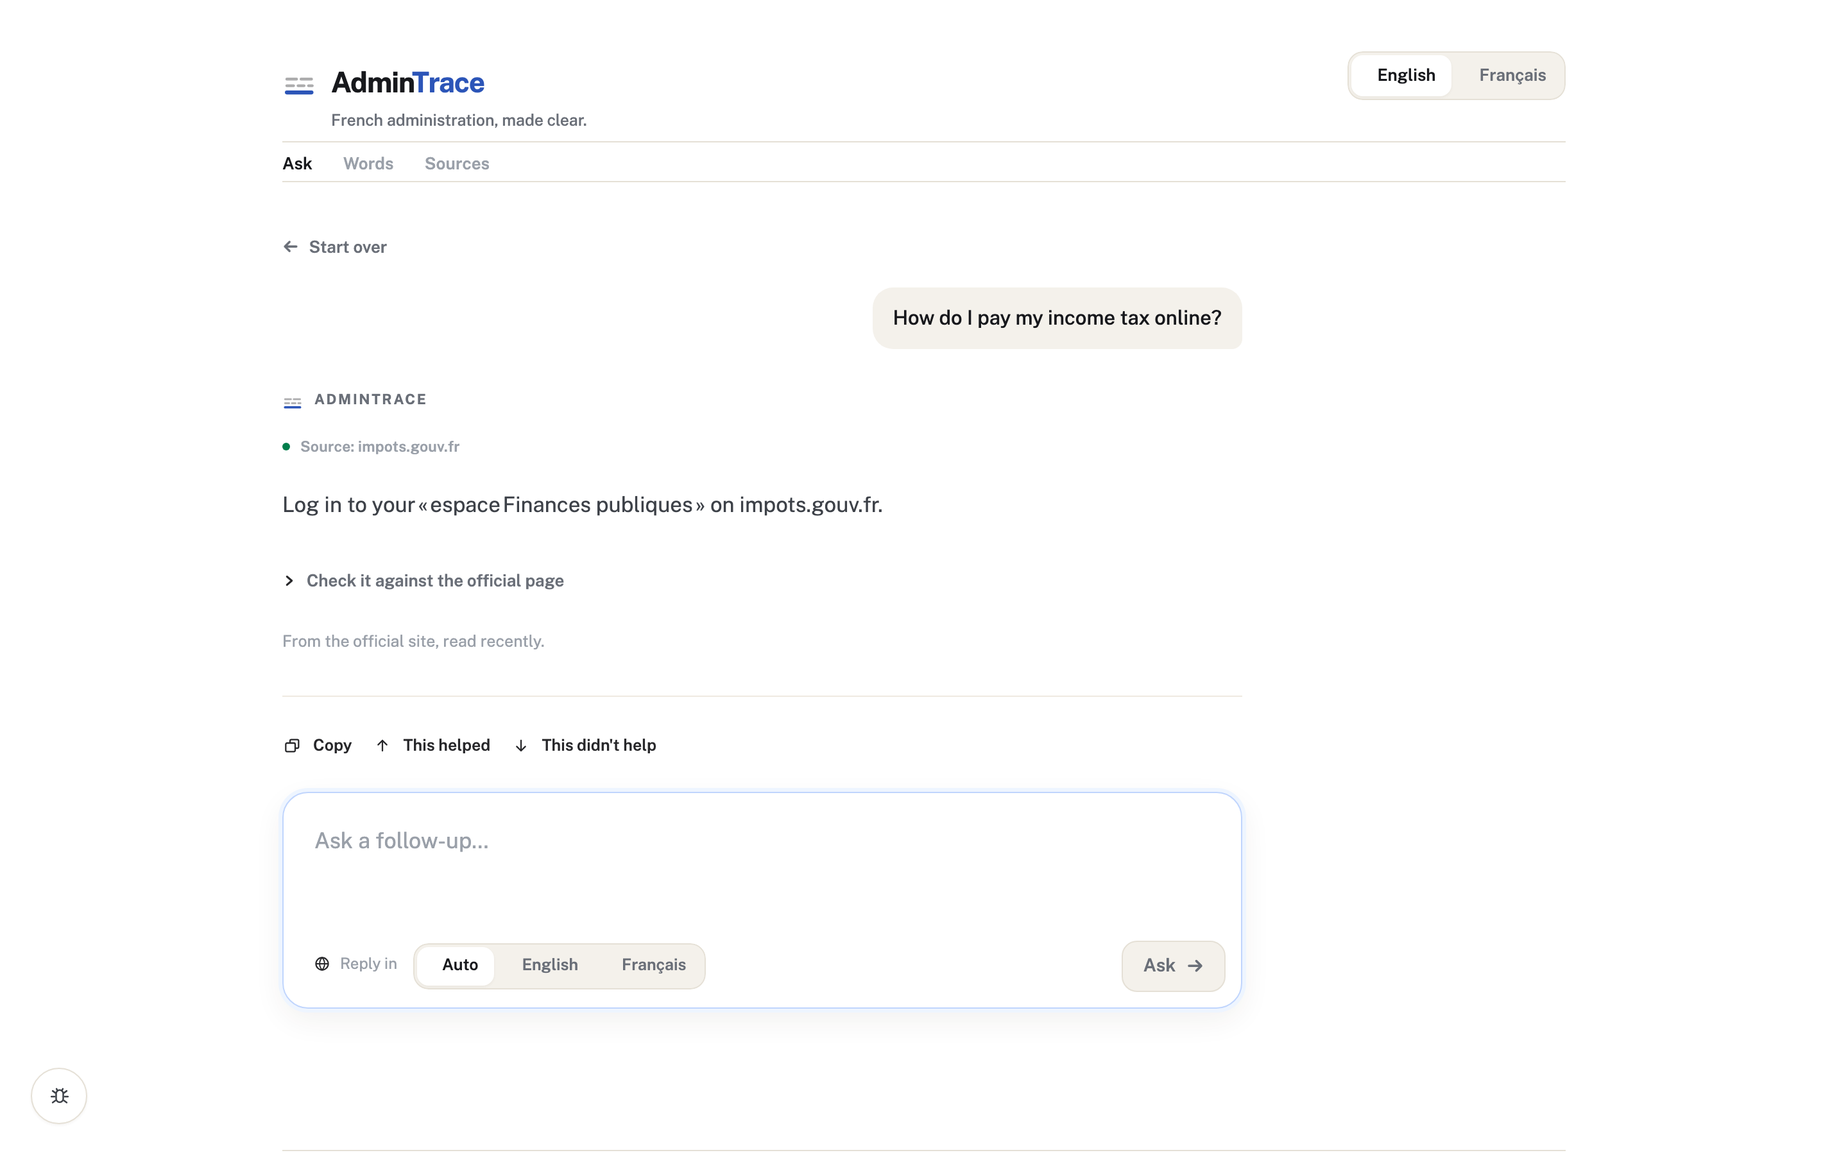
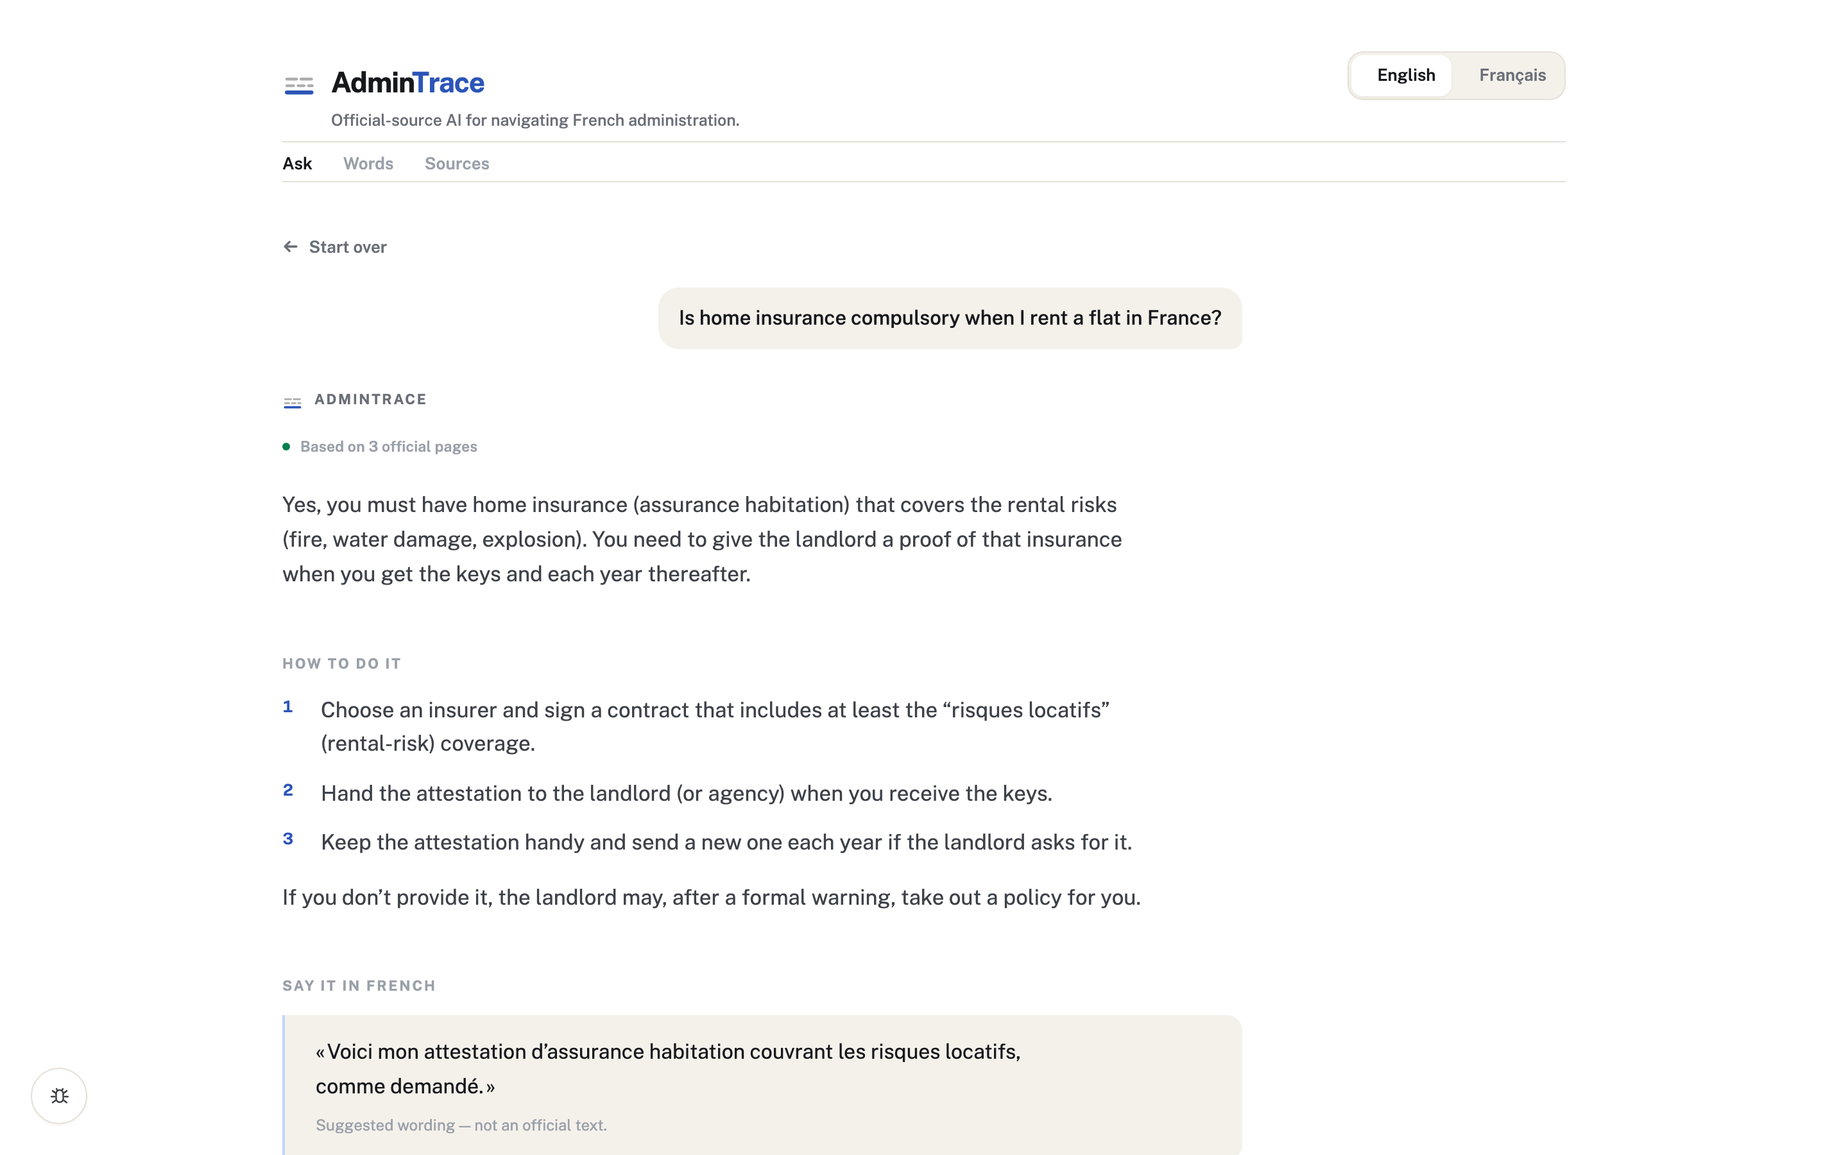
chore: prepare AdminTrace for public launch
Four things stood between this and a public launch.

Evidence selection deduplicated by page, so a fiche that answers across its
sections contributed only whichever section retrieval ranked first — the
passage stating a deposit amount was discarded as a duplicate of the passage
about getting it back, and the gate then refused, correctly, on the evidence it
had been handed. Selection now keys on page and section, capped at three
passages per page so one page still cannot fill every slot. Citations were
already deduplicated by URL, so a reader sees one entry per page as before.

"See the exact wording" never worked. The stylesheet reveals the passage
through `.rp-source.rp-open`, but `data-expandable` sat on the label inside the
card, so the handler toggled the class onto the label where no rule matched it
— and, the label being inside a link, the click opened the official site in a
new tab instead. The card carries the hook now and the handler prevents the
navigation. Verified in the running app: the excerpt goes from 0 to 130 pixels
and no second tab opens.

Two starter questions were refused in the live pipeline. The deposit question
becomes a compound query whose second half dominates retrieval, and the
contract question is routed to France Travail, which does not cover contract
law. Neither is fixable without retuning retrieval or adding a corpus fallback
to routing, so the questions are replaced with ones this system answers well —
[…]

diff --git a/app/ui/i18n.py b/app/ui/i18n.py
@@ -15,7 +15,7 @@ from __future__ import annotations
 STRINGS: dict[str, dict[str, str]] = {
     "en": {
         "headline": "What do you need help with?",
-        "promise": "French administration, made clear.",
+        "promise": "Official-source AI for navigating French administration.",
         "subhead": "Ask in English or French. Every answer comes from an "
                    "official government page.",
         "eyebrow": "Official sources only",
@@ -149,13 +149,13 @@ STRINGS: dict[str, dict[str, str]] = {
         "cat_permit": "Residence permits",
         "cat_permit_sub": "Renewals, first applications, changes",
         "cat_housing": "Housing",
-        "cat_housing_sub": "Deposits, leases, what a landlord may ask",
+        "cat_housing_sub": "Insurance, deposits, leases, what a landlord may ask",
         "cat_docs": "Documents",
         "cat_docs_sub": "Proof of address, civil status, translations",
         "cat_student": "Studying in France",
         "cat_student_sub": "Student work, CROUS, enrolment",
         "cat_work": "Work",
-        "cat_work_sub": "CDI, CDD, trial period, payslips",
+        "cat_work_sub": "Registering as a jobseeker, CDI, CDD, payslips",
         "cat_appt": "Appointments",
         "cat_appt_sub": "Prefecture slots, and what to do without one",
         "err_network": "We couldn't reach the service. Try again in a moment.",
@@ -212,7 +212,7 @@ STRINGS: dict[str, dict[str, str]] = {
     },
     "fr": {
         "headline": "De quoi avez-vous besoin ?",
-        "promise": "L'administration française, en clair.",
+        "promise": "L'IA qui navigue l'administration française à partir des sources officielles.",
         "subhead": "Posez votre question en français ou en anglais. Chaque "
                    "réponse vient d'une page officielle.",
         "eyebrow": "Uniquement des sources officielles",
@@ -352,13 +352,13 @@ STRINGS: dict[str, dict[str, str]] = {
         "cat_permit": "Titres de séjour",
         "cat_permit_sub": "Renouvellement, première demande, changement",
         "cat_housing": "Logement",
-        "cat_housing_sub": "Dépôt de garantie, bail, ce qu'un propriétaire exige",
+        "cat_housing_sub": "Assurance, dépôt de garantie, bail, ce qu'un propriétaire exige",
         "cat_docs": "Papiers",
         "cat_docs_sub": "Justificatif de domicile, état civil, traductions",
         "cat_student": "Études en France",
         "cat_student_sub": "Travail étudiant, CROUS, inscription",
         "cat_work": "Travail",
-        "cat_work_sub": "CDI, CDD, période d'essai, bulletin de paie",
+        "cat_work_sub": "Inscription comme demandeur d'emploi, CDI, CDD, paie",
         "cat_appt": "Rendez-vous",
         "cat_appt_sub": "Créneaux en préfecture, et que faire sans",
         "err_network": "Le service est injoignable. Réessayez dans un instant.",
@@ -424,18 +424,18 @@ STRINGS: dict[str, dict[str, str]] = {
 CATEGORIES = {
     "en": [
         ("cat_permit",  "permit",  "How do I renew my residence permit, and what do I need?"),
-        ("cat_housing", "housing", "How much deposit can a landlord ask for, and when do I get it back?"),
+        ("cat_housing", "housing", "Is home insurance compulsory when I rent a flat in France?"),
         ("cat_docs",    "docs",    "What counts as proof of address when I have just arrived?"),
         ("cat_student", "student", "I am a student in France — what am I allowed to work?"),
-        ("cat_work",    "work",    "What is the difference between a CDI and a CDD?"),
+        ("cat_work",    "work",    "How do I register as a jobseeker with France Travail?"),
         ("cat_appt",    "appt",    "There are no appointment slots at my préfecture. What can I do?"),
     ],
     "fr": [
         ("cat_permit",  "permit",  "Comment renouveler mon titre de séjour, et que faut-il fournir ?"),
-        ("cat_housing", "housing", "Quel dépôt de garantie un propriétaire peut-il demander, et quand est-il rendu ?"),
+        ("cat_housing", "housing", "L'assurance habitation est-elle obligatoire quand on est locataire ?"),
         ("cat_docs",    "docs",    "Qu'est-ce qui est accepté comme justificatif de domicile quand on vient d'arriver ?"),
         ("cat_student", "student", "Je suis étudiant en France — combien puis-je travailler ?"),
-        ("cat_work",    "work",    "Quelle est la différence entre un CDI et un CDD ?"),
+        ("cat_work",    "work",    "Comment s'inscrire comme demandeur d'emploi à France Travail ?"),
         ("cat_appt",    "appt",    "Il n'y a aucun créneau à ma préfecture. Que puis-je faire ?"),
     ],
 }

diff --git a/tests/test_source_selection.py b/tests/test_source_selection.py
@@ -230,3 +230,66 @@ def test_a_refusal_prompt_never_recites_the_pages_that_failed():
     prepared = prepare("how to get free tram in Antibes")
     prompt = " ".join(m.content for m in _messages(prepared, decision))
     assert "RSA" not in prompt and "seniors" not in prompt
+
+
+# ------------------------------------- one page, several sections (launch) --
+
+def section(title: str, *, fiche: str = "F31269", path: str = "",
+           situation: str = "", chunk: str = ""):
+    """A passage from one section of a fiche, as the corpus stores them."""
+    return Retrieved(chunk_id=chunk or f"{fiche}#{abs(hash(path)) % 999:03}#01",
+                     text=f"{title} {path} {situation}",
+                     metadata={"fiche_title_fr": title, "fiche_id": fiche,
+                               "section_path": path, "situation_fr": situation,
+                               "source_url": "https://service-public.gouv.fr/x"},
+                     dense_score=0.8)
+
+
+def test_two_sections_of_one_page_both_survive_selection():
+    """The deposit refusal: the amount and the refund are different sections.
+
+    Keying the duplicate rule on the page alone kept whichever section
+    retrieval happened to rank first and discarded the rest, so the passage
+    carrying the number never reached the model — and the answerability check
+    then refused, correctly, on the passages it had been given.
+    """
+    passages = [
+        section("Dépôt de garantie", path="Comment récupérer le dépôt"),
+        section("Dépôt de garantie", path="Quel est le montant du dépôt"),
+    ]
+    selection = select(passages)
+    assert len(selection.selected) == 2, [v.detail for _, v in selection.rejected]
+    assert {p.metadata["section_path"] for p in selection.selected} == {
+        "Comment récupérer le dépôt", "Quel est le montant du dépôt"}
+
+
+def test_the_same_section_twice_is_still_a_duplicate():
+    twice = [section("Dépôt de garantie", path="Quel est le montant du dépôt"),
+             section("Dépôt de garantie", path="Quel est le montant du dépôt")]
+    selection = select(twice)
+    assert len(selection.selected) == 1
+    assert selection.rejected[0][1].reason == Rejection.DUPLICATE.value
+
+
+def test_one_page_cannot_fill_every_slot():
+    """Diversity was the point of the old rule, and it is kept."""
+    from app.answer.relevance import PASSAGES_PER_PAGE
+
+    many = [section("Dépôt de garantie", path=f"Section {i}")
+            for i in range(PASSAGES_PER_PAGE + 2)]
+    selection = select(many)
+    assert len(selection.selected) == PASSAGES_PER_PAGE
+    assert all(verdict.reason == Rejection.DUPLICATE.value
+               for _, verdict in selection.rejected)
+
+
+def test_a_second_page_is_still_reachable_behind_a_long_page():
+    """The cap exists so the next source is not crowded out."""
+    from app.answer.relevance import PASSAGES_PER_PAGE
+
+    candidates = [section("Dépôt de garantie", path=f"Section {i}")
+                  for i in range(PASSAGES_PER_PAGE + 1)]
+    candidates.append(section("Colocation", fiche="F34661", path="Les règles"))
+    selection = select(candidates)
+    assert {p.metadata["fiche_id"] for p in selection.selected} == {"F31269",
+                                                                    "F34661"}

diff --git a/app/answer/relevance.py b/app/answer/relevance.py
@@ -137,21 +137,59 @@ def is_source_materially_relevant(hit, *, place=None, purposes: tuple = ()) -> b
     return check(hit, place=place, purposes=purposes).ok
 
 
+#: How many passages a single page may contribute.
+#:
+#: A fiche answers a question across its sections — the amount in one, the
+#: deadline in another — so treating the whole page as one candidate drops
+#: every section but the first. That is what refused "how much deposit can a
+#: landlord ask for": the page was retrieved, the section stating the amount
+#: was discarded as a duplicate of the section about getting it back, and the
+#: gate correctly reported that the passages it had did not answer the
+#: question. The cap still stops one page filling every slot.
+PASSAGES_PER_PAGE = 3
+
+
+def _page_of(hit) -> str:
+    return (getattr(hit, "metadata", {}) or {}).get("fiche_id") or \
+        getattr(hit, "url", "")
+
+
+def _section_of(hit) -> str:
+    """Which part of the page this is, as precisely as the metadata allows.
+
+    Falling back to the chunk id keeps two passages distinct when a source
+    carries no section metadata at all, so this can only ever be as strict as
+    the page-level key it replaced.
+    """
+    metadata = getattr(hit, "metadata", {}) or {}
+    for key in ("section_path", "section_title_fr"):
+        if metadata.get(key):
+            return f"{metadata[key]}|{metadata.get('situation_fr') or ''}"
+    return metadata.get("chunk_id") or getattr(hit, "chunk_id", "") or ""
+
+
 def select(candidates: list, *, place=None, purposes: tuple = ()) -> Selection:
     """Split what retrieval found into what may be shown and what may not."""
     chosen, refused, seen = [], [], set()
+    per_page: dict[str, int] = {}
     for hit in candidates:
-        key = (getattr(hit, "metadata", {}) or {}).get("fiche_id") or \
-            getattr(hit, "url", "")
-        if key and key in seen:
-            refused.append((hit, Verdict(False, Rejection.DUPLICATE.value,
-                                         "same page already selected")))
+        page, section = _page_of(hit), _section_of(hit)
+        if page and (page, section) in seen:
+            refused.append((hit, Verdict(
+                False, Rejection.DUPLICATE.value,
+                "same section of the same page already selected")))
+            continue
+        if page and per_page.get(page, 0) >= PASSAGES_PER_PAGE:
+            refused.append((hit, Verdict(
+                False, Rejection.DUPLICATE.value,
+                f"already showing {PASSAGES_PER_PAGE} passages from this page")))
             continue
         verdict = check(hit, place=place, purposes=purposes)
         if verdict.ok:
             chosen.append(hit)
-            if key:
-                seen.add(key)
+            if page:
+                seen.add((page, section))
+                per_page[page] = per_page.get(page, 0) + 1
         else:
             refused.append((hit, verdict))
     return Selection(candidates=list(candidates), selected=chosen,

diff --git a/tests/test_ui_assets.py b/tests/test_ui_assets.py
@@ -146,3 +146,48 @@ def test_the_answer_is_not_wrapped_in_a_card():
     body = match.group(1)
     assert "background: none" in body
     assert "border: 0" in body
+
+
+# ------------------------------------------------ the evidence a reader opens --
+
+def test_the_source_card_is_what_expands_not_its_label():
+    """"See the exact wording" was a control that did nothing.
+
+    The stylesheet reveals the passage through ``.rp-source.rp-open``, but
+    ``data-expandable`` sat on the label inside the card, so the click handler
+    toggled the class onto the label, where no rule matched it. The card
+    carries the hook now; the label is only a label.
+    """
+    from app.answer.cite import Citation
+
+    with_excerpt = Citation(
+        fiche_id="F1", title_fr="Accueil", url="https://francetravail.fr/",
+        last_updated="2026-01-01", last_updated_is_plausible=True,
+        situation_fr="", section_title_fr="", score=0.9,
+        excerpt="S'inscrire comme demandeur d'emploi")
+    markup = render.sources_html([with_excerpt])
+
+    card = re.search(r"<a class='rp-source'[^>]*>", markup)
+    assert card, "no source card was rendered"
+    assert "data-expandable" in card.group(0), "the card itself must carry the hook"
+    assert "rp-peek' data-expandable" not in markup
+    assert "rp-excerpt" in markup
+
+    assert re.search(r"\.rp-source\.rp-open \.rp-excerpt", STYLES), \
+        "the rule the hook depends on"
+
+
+def test_a_source_with_no_passage_to_show_is_not_expandable():
+    from app.answer.cite import Citation
+
+    bare = Citation(fiche_id="F1", title_fr="Accueil", url="https://x.gouv.fr/",
+                    last_updated="2026-01-01", last_updated_is_plausible=True,
+                    situation_fr="", section_title_fr="", score=0.9)
+    assert "data-expandable" not in render.sources_html([bare])
+
+
+def test_opening_a_passage_does_not_follow_the_source_link():
+    """The card is an anchor: without preventDefault the tab navigates away."""
+    handler = re.search(r"data-expandable[^;]*;(.{0,400})", HEAD, re.S)
+    assert handler, "the expandable handler is missing from the page script"
+    assert "preventDefault" in handler.group(1)

diff --git a/app/ui/render.py b/app/ui/render.py
@@ -334,6 +334,11 @@ def sources_html(citations: list[Citation], lang: str = "en") -> str:
             f"<a class='rp-source' style='--i:{index}' "
             f"href='{html.escape(citation.url)}' target='_blank' "
             f"rel='noopener noreferrer' title='{html.escape(citation.url)}' "
+            # The card is what expands, because the stylesheet reveals the
+            # excerpt through `.rp-source.rp-open`. Marking the "see the exact
+            # wording" label instead put the class on the label, where nothing
+            # matched it: the control looked live and did nothing.
+            + ("data-expandable " if citation.excerpt else "") +
             f"data-pop-label=\"{html.escape(t(lang, 'pop_source'), quote=True)}\">"
             f"<span class='rp-source-link'>&#8599;</span>"
             f"<div class='rp-source-title'>{html.escape(citation.title_fr)}</div>"
@@ -343,7 +348,7 @@ def sources_html(citations: list[Citation], lang: str = "en") -> str:
             f"<span{date_class}>"
             f"{html.escape(_updated_label(citation, lang))}</span>"
             f"</div>"
-            + (f"<span class='rp-peek' data-expandable>"
+            + (f"<span class='rp-peek'>"
                f"{html.escape(t(lang, 'peek'))}</span>"
                f"<span class='rp-excerpt'>{html.escape(citation.excerpt)}</span>"
                if citation.excerpt else "")

diff --git a/app/ui/app.py b/app/ui/app.py
@@ -189,7 +189,13 @@ _HEAD_TEMPLATE = r"""
     // answer actually drew on, so the reader can check it without leaving.
     if (event.target.closest(".rp-source-link")) return;
     const card = event.target.closest("[data-expandable]");
-    if (card) card.classList.toggle("rp-open");
+    if (card) {
+      // A source card is a link. Without this the browser follows the href
+      // and the reader loses the answer to a new tab instead of seeing the
+      // passage it was drawn from.
+      event.preventDefault();
+      card.classList.toggle("rp-open");
+    }
   });
 
   // --- a category is a question --------------------------------------------

diff --git a/README.md b/README.md
@@ -469,6 +469,32 @@ Flattening them would let the rules for one situation be read as the rules for
 another. Every chunk therefore belongs to exactly one branch and carries its
 label, and no chunk mixes two.
 
+### What retrieval still misses
+
+A fiche answers a question across its sections: the amount in one, the refund
+in another. Evidence selection therefore keeps distinct *sections* of a page —
+up to three of them — rather than treating the page as a single candidate,
+which used to discard every section but the first.
+
+That is not the whole problem. A compound question — "how much deposit can a
+landlord ask for, **and when do I get it back**" — becomes one search query in
+which the second half dominates, and the passage carrying the amount never
+enters the results. The answer then covers the half that was retrieved and says
+plainly that the sources it has do not state the other. The gate is behaving
+correctly on the evidence it was given; the evidence is what is wrong, and
+fixing it means multi-query retrieval rather than a threshold change. Until
+then, one question at a time retrieves better than two.
+
+A second limit is routing, not retrieval. When a topic has a registered live
+authority, the question goes there — so a question about employment contract
+law is put to France Travail, whose pages are about its own services, and is
+refused even though the corpus answers it. Asking the library directly answers
+it; asking through the interface does not. The refusal is honest, and the
+routing is defensible — France Travail *is* the authority for work — but the
+reader loses an answer the system holds. Falling back to the corpus when the
+authority's own pages do not cover the question is the obvious fix and is not
+in this release.
+
 ## No administrative fact lives in code
 
 Deadlines, fees, hour limits, document lists and eligibility conditions reach a
@@ -545,20 +571,23 @@ against which a requested `max_tokens` is *reserved*, not merely counted — two
 calls were enough to hit a 429 on consecutive questions.
 
 The evidence gate now decides the same thing from retrieval scores, and reaches
-the model only when those scores are ambiguous. Over the last 70 recorded
-answers on one machine that is a mean of 1.00 model calls per answer (maximum
-2), with a median answer time of 0.8s for procedural questions.
+the model only when those scores are ambiguous, so the common path is one call
+rather than two. That is a property of the code, which you can read; it is not
+a latency promise, and this README deliberately quotes no median response time.
+Speed depends on the provider, the plan, the question and the machine.
 
-The limit has not gone away, it has moved: 9 of those 70 answers were still
-rate-limited, because they were asked back to back by an automated script
-rather than by a person reading the replies. When the provider does refuse,
-the reported interval is waited out and retried twice, up to 35 seconds; a
-longer wait fails immediately and the interface says the provider is
-rate-limited, rather than spending two minutes to produce nothing.
+The limit has not gone away either. Asked back to back by a script, answers
+here are still rate-limited a noticeable fraction of the time on the free tier
+— a person reading each reply before asking the next hits it far less. When the
+provider does refuse, the reported interval is waited out and retried twice, up
+to 35 seconds; a longer wait fails immediately and the interface says the
+provider is rate-limited, rather than spending two minutes to produce nothing.
 
-(Those figures are local telemetry, printed by `app.performance_report`. They
-are not committed — `data/` is runtime state — so they are reproducible on your
-own machine, not verifiable from this repository.)
+Run `app.performance_report` to see what your own installation does: calls per
+answer, latency by response class, how often the provider refused, and what
+claim validation cost. Those numbers live in `data/`, which is runtime state
+and is never committed, so nothing here can be taken on trust from the
+repository — measure it yourself.
 
 ## Known gaps
 
